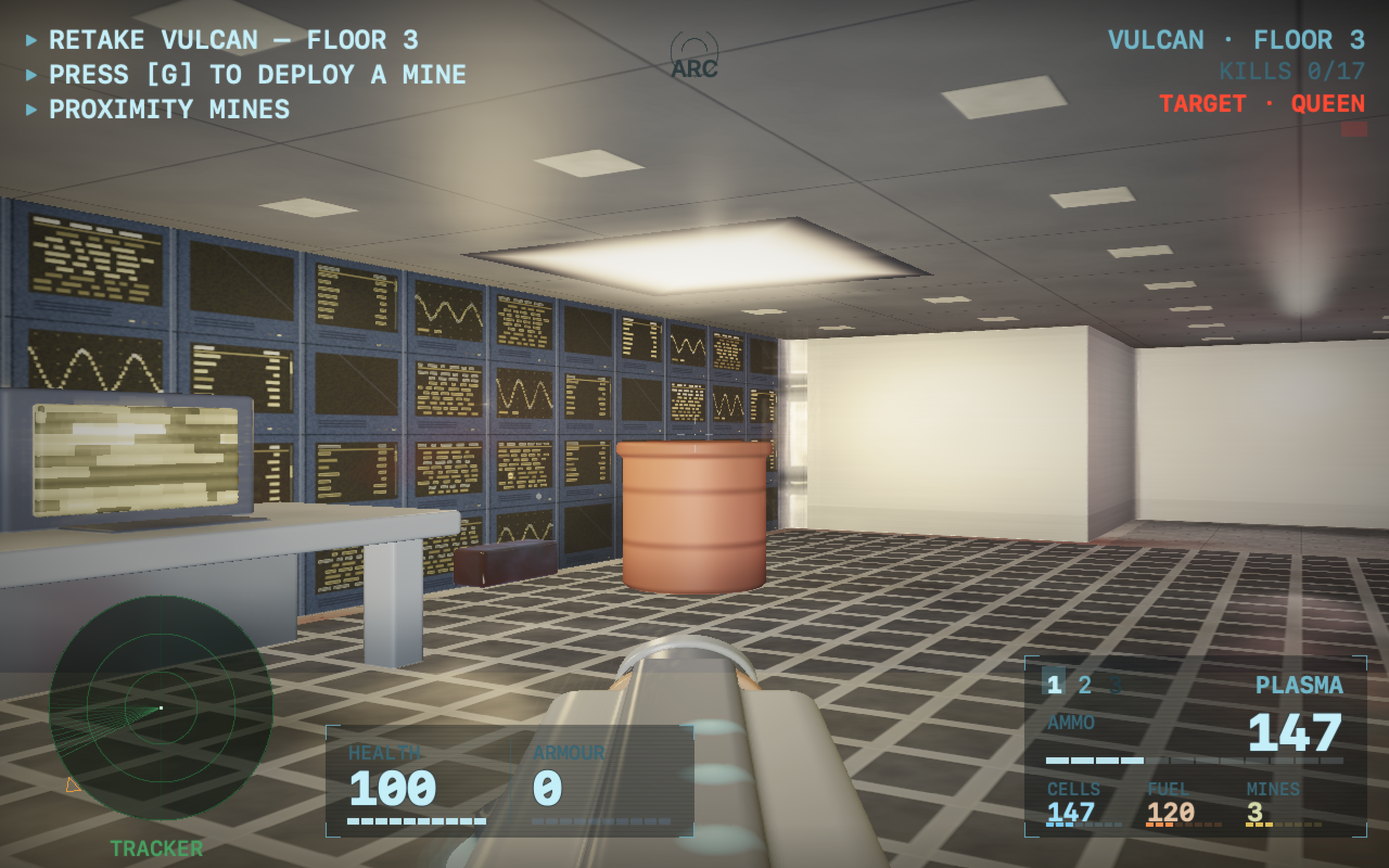
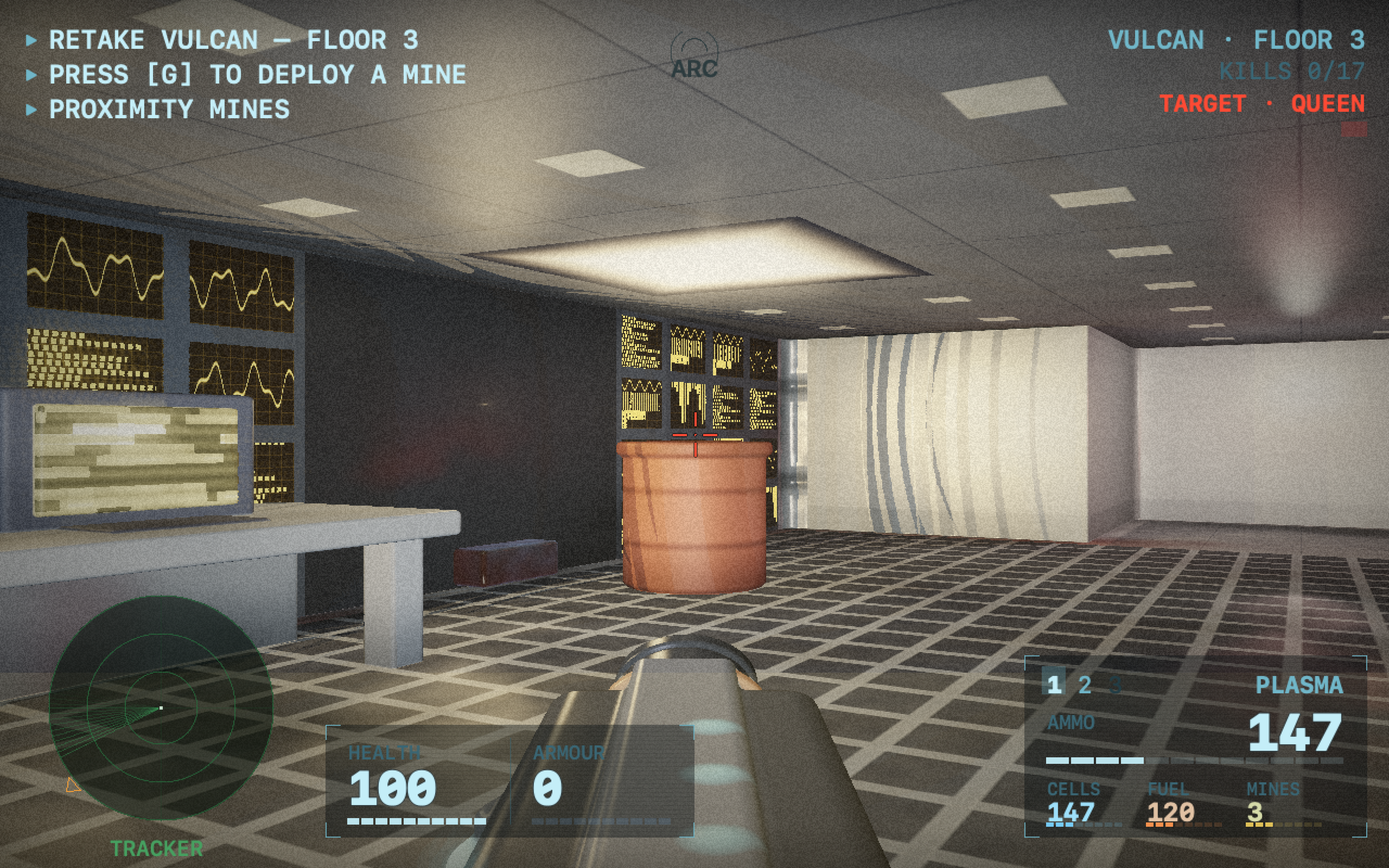
README: refresh screenshots, feature the flamethrower, correct the rendering thesis
- Regenerate the documentation screenshots at the new default lighting.
- Add a flamethrower combat shot (new Captures harness frame, docs/screenshots/
  13-fire.png) and lead the Screenshots section with it.
- Correct the "no 3-D models" claim: name the mesh bestiary, the title / Hall of
  the Fallen hero plates, and the audio samples as the deliberate exceptions to
  the otherwise code-drawn world.

diff --git a/Sources/Harness/Captures.swift b/Sources/Harness/Captures.swift
@@ -66,6 +66,34 @@ enum Captures {
         HUD().draw(world, into: game)
         save(game, "combat")
 
+        // fire — the build's money shot: the flamethrower's fat gout down the aim,
+        // a drone caught in the stream and burning. Reuses the combat world (its
+        // sightline is already validated clear); staged directly so it's
+        // deterministic. Explicit filename so the 03–09 doc numbering doesn't shift.
+        world.drums.removeAll()                                   // clear the plasma-shot's drum
+        world.player.giveWeapon(.flamethrower); world.player.giveAmmo(.fuel, 200)
+        world.player.current = .flamethrower
+        world.player.fireAnim = 0.12; world.player.muzzle = 0.06
+        let fdir = SIMD2<Float>(cos(world.player.dir), sin(world.player.dir))
+        // a drone in the stream, mid-pyre (0 < burn < 1 → a live, flaring fire)
+        if let di = world.monsters.firstIndex(where: { $0.kind == .alien }) {
+            world.monsters[di].pos = world.player.pos + fdir * 2.4
+            world.monsters[di].state = .dead
+            world.monsters[di].burn = 0.4
+        }
+        // the live jet down the aim, clipped at the first wall (as World.fire does)
+        let fnozzle = world.player.pos + fdir * 0.35 + SIMD2(-fdir.y, fdir.x) * Viewmodel.anchorRight
+        var freach: Float = 6, fprobe = fnozzle, ftrav: Float = 0
+        while ftrav < 6 { fprobe += fdir * 0.15; ftrav += 0.15
+            if world.map.blocksMovement(Int(fprobe.x), Int(fprobe.y)) { freach = ftrav; break } }
+        world.flameJet = World.FlameJet(t: 0.10, nozzle: fnozzle, dir: fdir, reach: freach)
+        let fire = Canvas2D()
+        draw3D(world, into: fire)
+        HUD().draw(world, into: fire)
+        writePNG(fire.framebuffer, w: RenderConfig.width, h: RenderConfig.height, scale: scale,
+                 to: dir.appendingPathComponent("13-fire.png"))
+        print("  wrote 13-fire.png")
+
         // atmosphere — drop the marine into the darkest cell of the level, facing
         // the Queen's lair, so the auto-headlamp does the seeing. Showcases the
         // dark pass; explicit filename so the 03–09 doc references don't shift.

diff --git a/README.md b/README.md
@@ -15,21 +15,27 @@ war; this is the retake on foot.
 
 ## Rendered in code, in real time
 
-Citadel ships **no textures, no sprites, no 3-D models and no level files**. The
-world and everything in it is a real-time **GPU signed-distance-field
-raymarcher** (a Metal compute kernel): the iron-and-steel architecture, the
-wall-baked pipework and steelwork, the fuel drums and recharge panels, and the
-**biomechanical aliens themselves** are all true 3-D SDF geometry, lit and
-colour-graded on the GPU. The HUD and front-end screens are drawn into a
-software 2-D canvas and composited on top, then upscaled aspect-correct and
-letterboxed.
+Citadel's world is drawn in real time by a **GPU signed-distance-field
+raymarcher** (a Metal compute kernel) — **no textures, no sprites, no level
+files.** The iron-and-steel architecture, the wall-baked pipework and steelwork,
+the fuel drums and recharge panels, the fire, and the pickups are all true 3-D
+SDF geometry, lit and colour-graded on the GPU. The HUD and front-end screens are
+drawn into a software 2-D canvas and composited on top, then upscaled
+aspect-correct and letterboxed.
 
-The one deliberate exception is **audio**. Citadel's atmosphere leans too hard on
-sound to synthesise convincingly, so it ships a small, curated set of **CC0 /
-CC-BY** samples — weapon fire, the aliens' voices, and a reactive ambient bed
-that thickens as the swarm closes in — all credited in [CREDITS.md](CREDITS.md).
-(A from-scratch synthesiser remains in the binary as a fallback for any missing
-sample.)
+Three deliberate exceptions earn their place:
+
+- **The bestiary.** The biomechanical aliens — the **DRONE** and the **QUEEN** —
+  ship as **3-D meshes**: their organic, ridged anatomy reads better sculpted
+  than raymarched. They're rasterised into the SDF scene over matched depth, with
+  per-pixel lighting, so they take fire, burn and dissolve like everything else.
+- **Two hero plates.** A single cinematic image backs the title screen and the
+  Hall of the Fallen.
+- **Audio.** Citadel's atmosphere leans too hard on sound to synthesise
+  convincingly, so it ships a small, curated set of **CC0 / CC-BY** samples —
+  weapon fire, the aliens' voices, and a reactive ambient bed that thickens as the
+  swarm closes in — all credited in [CREDITS.md](CREDITS.md). (A from-scratch
+  synthesiser remains in the binary as a fallback for any missing sample.)
 
 Levels are **procedurally generated** and **verified solvable** with a keyed
 flood-fill, so every floor is beatable: rooms and corridors, doors and
@@ -77,10 +83,14 @@ fight.
 
 ## Screenshots
 
+![The flamethrower, mid-gout, a drone caught in the stream](docs/screenshots/13-fire.png)
+
+*The flamethrower opens up in an occupied ARC control room.*
+
 | | |
 |---|---|
 | ![Combat and the visor HUD](docs/screenshots/02-combat.png) | ![Field intel — the Queen](docs/screenshots/04-intel-2.png) |
-| The visor HUD, live in an occupied ARC control room. | FIELD INTEL: the Queen, front and profile. |
+| The plasma rifle and the visor HUD. | FIELD INTEL: the Queen, front and profile. |
 | ![Mission briefing](docs/screenshots/08-briefing.png) | ![The Hall of the Fallen](docs/screenshots/10-highscores.png) |
 | The occupation, in brief. | The Hall of the Fallen. |
 
